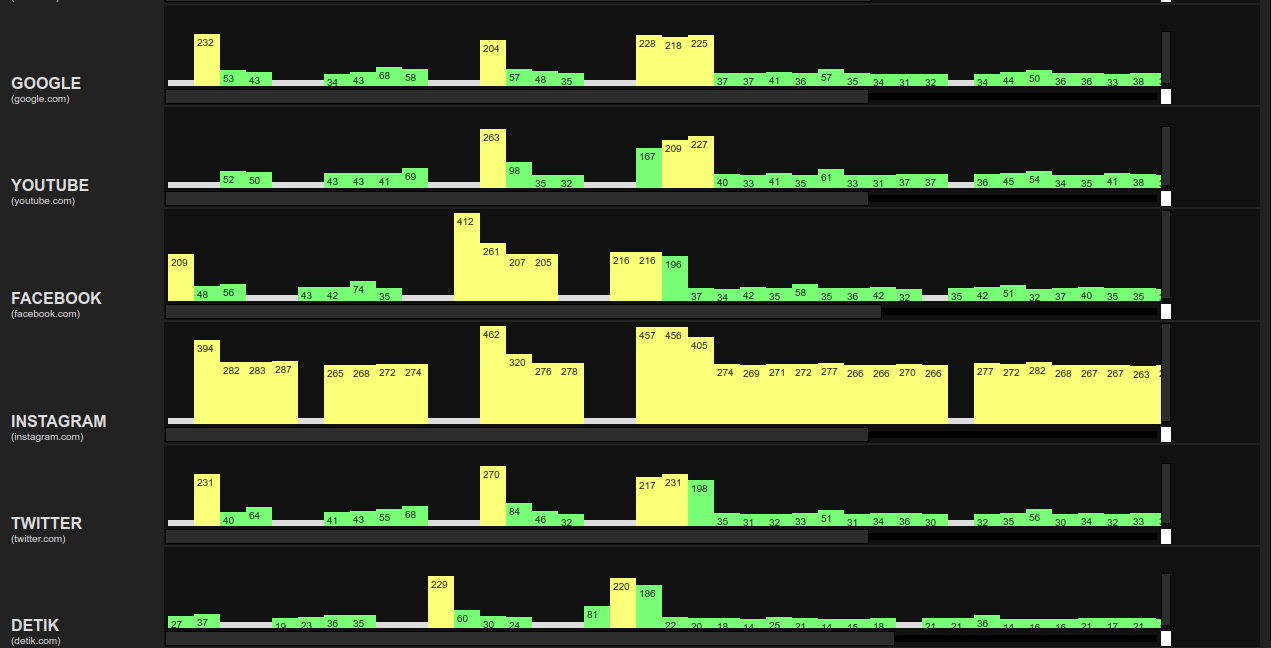
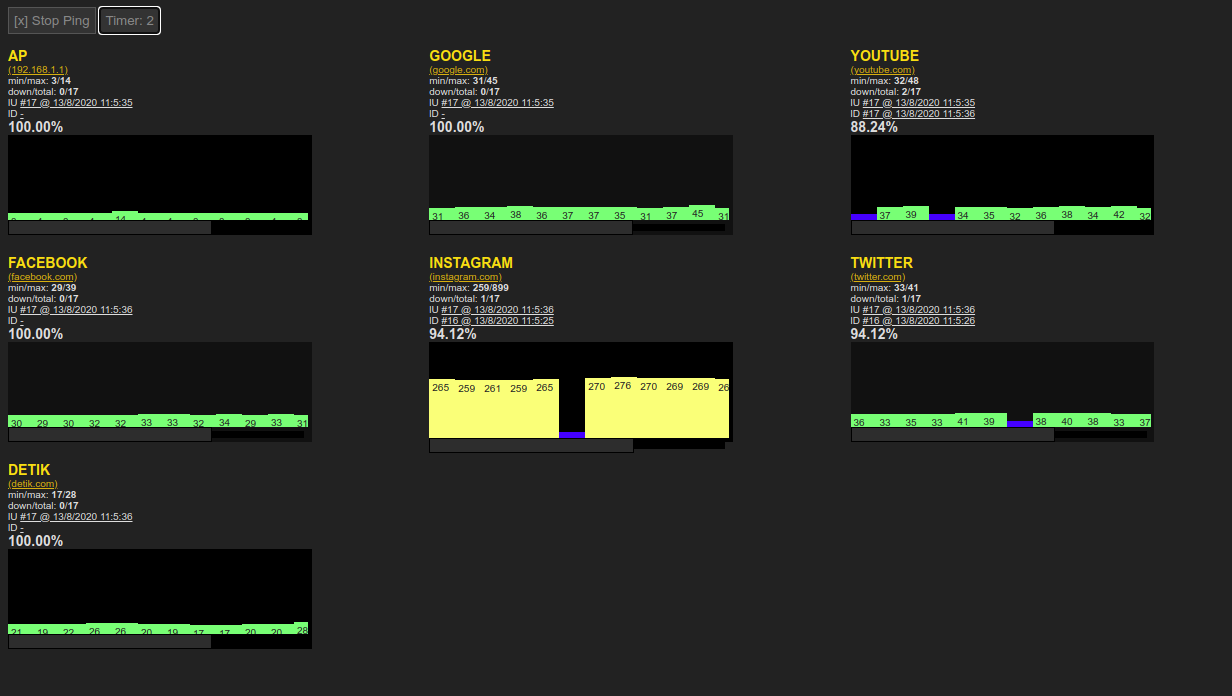
add detail, change layout and add timer changer

Changed region(s): [[0.0, 0.0, 0.9562, 1.0], [0.0, 0.9568, 0.0617, 1.0]]

diff --git a/index.php b/index.php
@@ -2,8 +2,9 @@
 error_reporting(E_ALL);
 ini_set('display_errors', 'On');
 
-$start = 10;
+$get_timer = isset($_GET['timer']) ? $_GET['timer'] : 10;
 
+$start = $get_timer;
 // ************* list ip/host.begin **************
 $hosts = [];
 $hosts['AP'] = '192.168.1.1';
@@ -14,15 +15,14 @@ $hosts['INSTAGRAM'] = 'instagram.com';
 $hosts['TWITTER'] = 'twitter.com';
 $hosts['DETIK'] = 'detik.com';
 // ************* list ip/host.end ****************
-
-
 function Ping($host, $timeout = 10)
 {
+  $timeout = $get_timer ?? $timeout;
   if (strtoupper(substr(PHP_OS, 0, 3)) === 'WIN') {
-    // echo 'njenengan ngagem windows';
+    // echo 'This is a server using Windows!';
     $os = "win";
   } else {
-    // echo 'njenengan mboten ngagem windows';
+    // echo 'This is a server not using Windows!';
     $os = "lin";
   }
 
@@ -41,13 +41,13 @@ function Ping($host, $timeout = 10)
     foreach ($output as $cline) {
       if ($os == "lin") {
         if (strpos($cline, ' bytes from ') !== false) {
-          $out = (int) ceil(floatval(substr($cline, strpos($cline, 'time=') + 5)));
+          $out = (int)ceil(floatval(substr($cline, strpos($cline, 'time=') + 5)));
           return $out;
         }
       }
       if ($os == "win") {
         if (strpos($cline, 'Reply from ') !== false) {
-          $out = (int) ceil(floatval(substr($cline, strpos($cline, 'time=') + 5)));
+          $out = (int)ceil(floatval(substr($cline, strpos($cline, 'time=') + 5)));
           return $out;
         }
       }
@@ -66,12 +66,15 @@ if (isset($_GET['host'])) {
 
 <script>
   function ngeping(liid, host) {
+    window['total-' + liid]++;
     var lid = document.getElementById(liid);
     var hid = document.getElementById("h" + liid);
 
     xhttp = new XMLHttpRequest();
     xhttp.onreadystatechange = function() {
       if (this.readyState == 4 && this.status == 200) {
+        //total
+        document.getElementById('total-' + liid).innerHTML = window['total-' + liid];
         var result = this.responseText;
         var width = this.responseText;
         var cssHeight = this.responseText * 50 / 250;
@@ -83,13 +86,28 @@ if (isset($_GET['host'])) {
         var currentdate = new Date();
         var datetime = currentdate.getDate() + "/" +
           (currentdate.getMonth() + 1) + "/" +
-          currentdate.getFullYear() + " @ " +
+          currentdate.getFullYear() + " " +
           currentdate.getHours() + ":" +
           currentdate.getMinutes() + ":" +
           currentdate.getSeconds();
 
         lid.style.width = width + "px";
         lid.innerHTML = result;
+
+        //min
+        if (Number(window['min-' + liid]) == 0) {
+          window['min-' + liid] = result;
+          document.getElementById('min-' + liid).innerHTML = result;
+        } else if (Number(result) < Number(window['min-' + liid])) {
+          window['min-' + liid] = result;
+          document.getElementById('min-' + liid).innerHTML = result;
+        } else {}
+
+        //max
+        if (Number(result) > Number(window['max-' + liid])) {
+          window['max-' + liid] = result;
+          document.getElementById('max-' + liid).innerHTML = result;
+        }
 
         if (result >= 500) {
           lid.style.backgroundColor = "#f77";
@@ -100,10 +118,12 @@ if (isset($_GET['host'])) {
           para.style.display = "inline-block";
           para.style.verticalAlign = "bottom";
           para.style.height = cssHeight;
-          para.style.maxHeight = "100px";
+          para.style.maxHeight = "90px";
           para.title = datetime;
           var node = document.createTextNode(result);
           para.insertBefore(node, para.firstChild);
+          //last up
+          document.getElementById('lu-' + liid).innerHTML = ' #' + window['total-' + liid] + ' @ ' + datetime;
         } else if (result > 200 && result < 500) {
           lid.style.backgroundColor = "#ff7";
           var para = document.createElement("span");
@@ -114,14 +134,16 @@ if (isset($_GET['host'])) {
           para.style.verticalAlign = "bottom";
           para.style.width = "20px";
           para.style.height = cssHeight;
-          para.style.maxHeight = "100px";
+          para.style.maxHeight = "80px";
           para.title = datetime;
           var node = document.createTextNode(result);
+          //last up
+          document.getElementById('lu-' + liid).innerHTML = ' #' + window['total-' + liid] + ' @ ' + datetime;
           para.insertBefore(node, para.firstChild);
         } else if (result == '-') {
-          lid.style.backgroundColor = "#ddd";
+          lid.style.backgroundColor = "white";
           var para = document.createElement("span");
-          para.style.backgroundColor = "#ddd";
+          para.style.backgroundColor = "blue";
           para.style.padding = "3px";
           para.style.color = "#222";
           para.style.display = "inline-block";
@@ -132,6 +154,10 @@ if (isset($_GET['host'])) {
           para.title = datetime;
           var node = document.createTextNode(result);
           para.insertBefore(node, para.firstChild);
+          //down nih
+          window['down-' + liid]++;
+          document.getElementById('down-' + liid).innerHTML = window['down-' + liid];
+          document.getElementById('ld-' + liid).innerHTML = ' #' + window['total-' + liid] + ' @ ' + datetime;
         } else {
           lid.style.backgroundColor = "#7f7";
           var para = document.createElement("span");
@@ -142,15 +168,24 @@ if (isset($_GET['host'])) {
           para.style.verticalAlign = "bottom";
           para.style.width = "20px";
           para.style.height = cssHeight;
-          para.style.maxHeight = "100px";
+          para.style.maxHeight = "70px";
           para.title = datetime;
           var node = document.createTextNode(result);
           para.insertBefore(node, para.firstChild);
+          //last up
+          document.getElementById('lu-' + liid).innerHTML = ' #' + window['total-' + liid] + ' @ ' + datetime;
         }
         hid.insertBefore(para, hid.firstChild);
       }
+      window['persen-' + liid] = (Number(window['total-' + liid]) - Number(window['down-' + liid])) / Number(window['total-' + liid]) * 100;
+      document.getElementById('persen-' + liid).innerHTML = window['persen-' + liid].toFixed(2) + '%';
+      if (window['persen-' + liid] < 50) {
+        document.getElementById('th-' + liid).style.backgroundColor = 'maroon';
+      } else {
+        document.getElementById('th-' + liid).style.backgroundColor = 'transparent';
+      }
     };
-    xhttp.open("GET", "?host=" + host, true);
+    xhttp.open("POST", "?host=" + host, true);
     xhttp.send();
   }
 
@@ -194,8 +229,15 @@ if (isset($_GET['host'])) {
   document.addEventListener("DOMContentLoaded", function(event) {
     //code autoload...
   });
-</script>
 
+  function gantiTimer() {
+    var a = prompt('Timer (default:10)', 10);
+    if (a) {
+      window.location.href = '?timer=' + a;
+    }
+  }
+</script>
+<meta name="viewport" content="width=device-width, initial-scale=1">
 <title>Pingku by @aviantorichad</title>
 <style>
   body {
@@ -223,18 +265,25 @@ if (isset($_GET['host'])) {
     width: 150px;
     display: inline-block;
     font-weight: bold;
+    color: gold;
   }
 
-  .desc {
+  .desc,
+  .status,
+  .total {
     width: 150px;
     font-size: 10px;
     display: inline-block;
   }
 
   .result {
-    padding: 3px;
     display: inline-block;
     color: #000;
+    font-size: 10px;
+    white-space: nowrap;
+    width: auto;
+    width: 300px;
+    overflow: scroll;
   }
 
   .hist .result {
@@ -245,7 +294,7 @@ if (isset($_GET['host'])) {
   }
 
   ::-webkit-scrollbar {
-    width: 10px;
+    width: 0px;
   }
 
   /* Track */
@@ -274,10 +323,37 @@ if (isset($_GET['host'])) {
     background: #034;
     color: #fff;
   }
+
+  .tr {
+    width: 33.33%;
+    display: inline-block;
+    margin-bottom: 20px;
+  }
+
+  .th {
+    vertical-align: bottom;
+    display: inline-block;
+  }
+
+  .td {
+    height: 100px;
+    vertical-align: bottom;
+    background: #111;
+    display: inline-block;
+  }
+
+  @media only screen and (max-width: 600px) {
+    .tr {
+      width: 100%;
+      display: inline-block;
+      margin-bottom: 20px;
+    }
+
+  }
 </style>
 <button name="btnDoingInterval" id="btnDoPingInterval" onclick="doPingInterval()">[>] Play Ping</button>
 <button name="btnStopPingInterval" id="btnStopPingInterval" onclick="stopPingInterval()" style="display:none;">[x] Stop Ping</button>
-<button name="counter">Timer: <span id="counter">0</span></button>
+<button name="counter" onClick="gantiTimer()">Timer: <span id="counter">0</span></button>
 <button name="btnDoPing" id="btnDoPing" onclick="doPing()">Ping Sekali</button>
 <ul>
   <?php foreach ($hosts as $key => $value) {
@@ -285,38 +361,45 @@ if (isset($_GET['host'])) {
   }
   ?>
 </ul>
-<table style="width:100%" border=0>
-  <?php foreach ($hosts as $key => $value) {
-    echo '<tr>
-            <td style="width:100px;vertical-align:bottom;height:100px;">
+<div class="table" style="width:100%" border=0>
+  <?php
+  $x = 0;
+  foreach ($hosts as $key => $value) {
+    $bgcolor = ($x % 2 == 0) ? '#000' : '#111';
+    echo '<div class="tr">
+            <div class="th" id="th-' . $key . '">
               <span class="label">' . $key . '</span>
               <br/>
-              <span class="desc">(' . $value . ')</span>
-            </td>
-            <td style="height:100px;vertical-align:bottom;background:#111">
-              <div id="h' . $key . '" title="' . $value . '" class="result custom_scrollbar" style="font-size:10px;white-space: nowrap;width:1000px;overflow:auto;"></div>
-            </td>
-          </tr>';
+              <span class="desc"><a href="http://' . $value . '" target="_blank" style="color:#da0">(' . $value . ')</a></span>
+              <br/>
+              <span class="status">min/max: <b id="min-' . $key . '">0</b>/<b id="max-' . $key . '">0</b></span>
+              <br/>
+              <span class="total">down/total: <b id="down-' . $key . '">0</b>/<b id="total-' . $key . '">0</b></span>
+              <br/>
+              <span class="total" title="last up">lU <u id="lu-' . $key . '">-</u></span>
+              <br/>
+              <span class="total" title="last down">lD <u id="ld-' . $key . '">-</u></span>
+              <br/>
+              <span class="persen"><b id="persen-' . $key . '">0%</b></span>
+            </div>
+            <div class="td" style="background:' . $bgcolor . '">
+              <div id="h' . $key . '" title="' . $value . '" class="result custom_scrollbar"></div>
+              <div style="height:100px;background:red;display:inline-block;"></div>
+              
+          <script>
+          window["persen-' . $key . '"] = 0;
+          window["total-' . $key . '"] = 0;
+          window["down-' . $key . '"] = 0;
+          window["lu-' . $key . '"] = 0;
+          window["ld-' . $key . '"] = 0;
+          window["min-' . $key . '"] = 0;
+          window["old-min-' . $key . '"] = 0;
+          window["max-' . $key . '"] = 0;
+          window["old-max-' . $key . '"] = 0;
+          </script>
+            </div>
+          </div>';
+    $x++;
   }
   ?>
-</table>
-<!-- 
-kula nuwun
-matur nuwun sampun ngagem aplikasi niki
-aplikasi niki awalipun damel monitor koneksi internal kulo
-sakniki badhe kulo share damel njenengan2 menawi gadah kebutuhan ingkang sami kaliyan kulo
-nuwun sewu menawi badhe dimodifikasi ampun nghapus/ngubah "kredit" nami kulo ting aplikasi niki, 
-sakestu, sepele nanging berarti kagem kulo
-
-menawi badhe donasi kulo nggih nampi lan saged dikirim ting bank meniko
-BANK BCA : 8715-9843-81 a/n Richad Avianto
-PAYPAL : aviantorich@gmail.com
-
-
-*dilarang keras memodifikasi/menghapus kredit aviantorichad dan mengkomersilkan aplikasi ini tanpa seijin dari aviantorich@gmail.com
-
-author: Richad Avianto
-alias: aviantorichad
-github: github.com/aviantorichad 
-kritik/saran/bug: kirim email ke aviantorich@gmail.com atau kirim issue ke github
--->
+</div>

diff --git a/README.md b/README.md
@@ -1,21 +1,31 @@
 # ping-koneksi.php
+
 ![screenshot](https://github.com/aviantorichad/ping-koneksi.php/blob/master/ss.png)
 
 ## INSTALLATION
-+ clone or download this repo
-+ [NATIVE PHP]
-```cd ping-koneksi.php```
-then
-```php -S 0.0.0.0:9090 ```
 
-+ [XAMPP] extract/copy paste to your htdocs folder 
+- clone or download this repo
+- [NATIVE PHP]
+  `cd ping-koneksi.php`
+  then
+  `php -S 0.0.0.0:9090`
 
-+ access it from your browser (native)
-``` localhost:9090/index.php```
-or (xampp)
-``` localhost/ping-koneksi.php/index.php```
+- [XAMPP] extract/copy paste to your htdocs folder
+
+- access it from your browser (native)
+  `localhost:9090/index.php`
+  or (xampp)
+  `localhost/ping-koneksi.php/index.php`
 
 ## USING IT
-+ Play Ping : for interval ping (10s default)
-+ Timer : timer
-+ Ping Sekali : ping once
+
+- Play Ping : for interval ping (10s default)
+- Timer : timer (click this button to change timer)
+- Ping Sekali : ping once
+
+## LEGEND
+
+- green : 200 <= (ping) [ok]
+- yellow : 200 > (ping) < 500 [warning]
+- red : (ping) > 500 [danger]
+- blue : down (not connected) [RIP]
